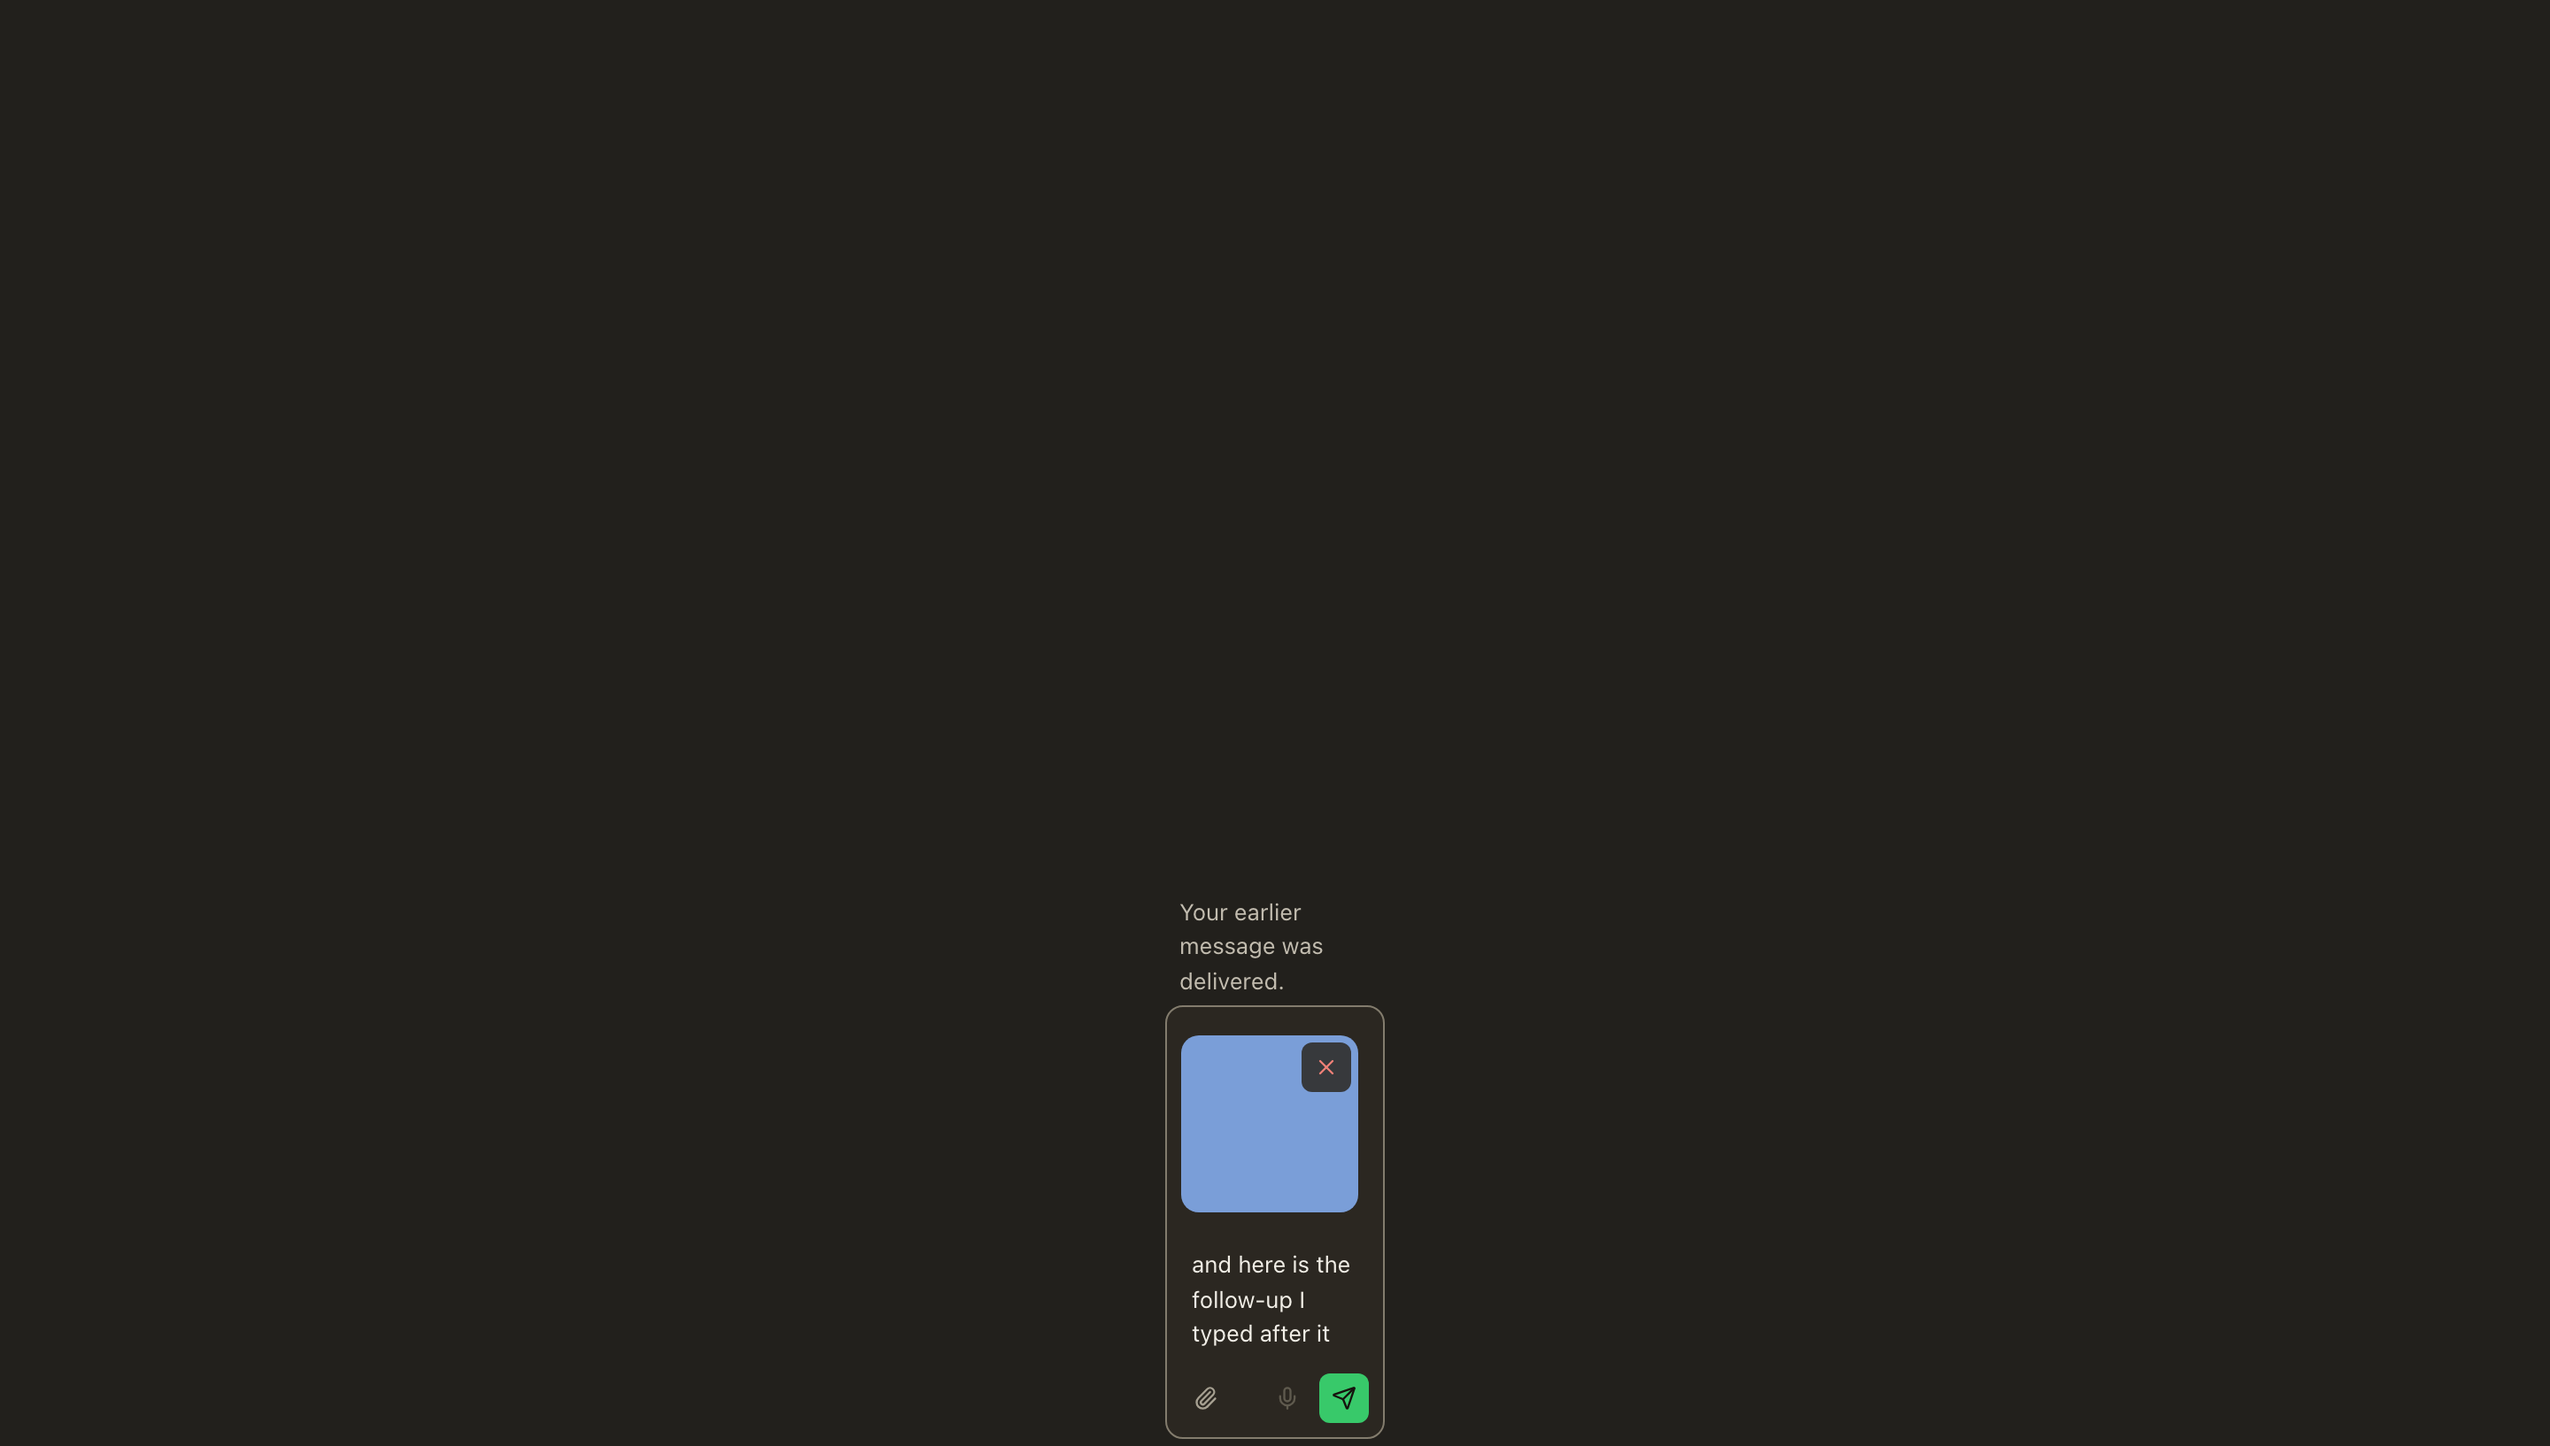
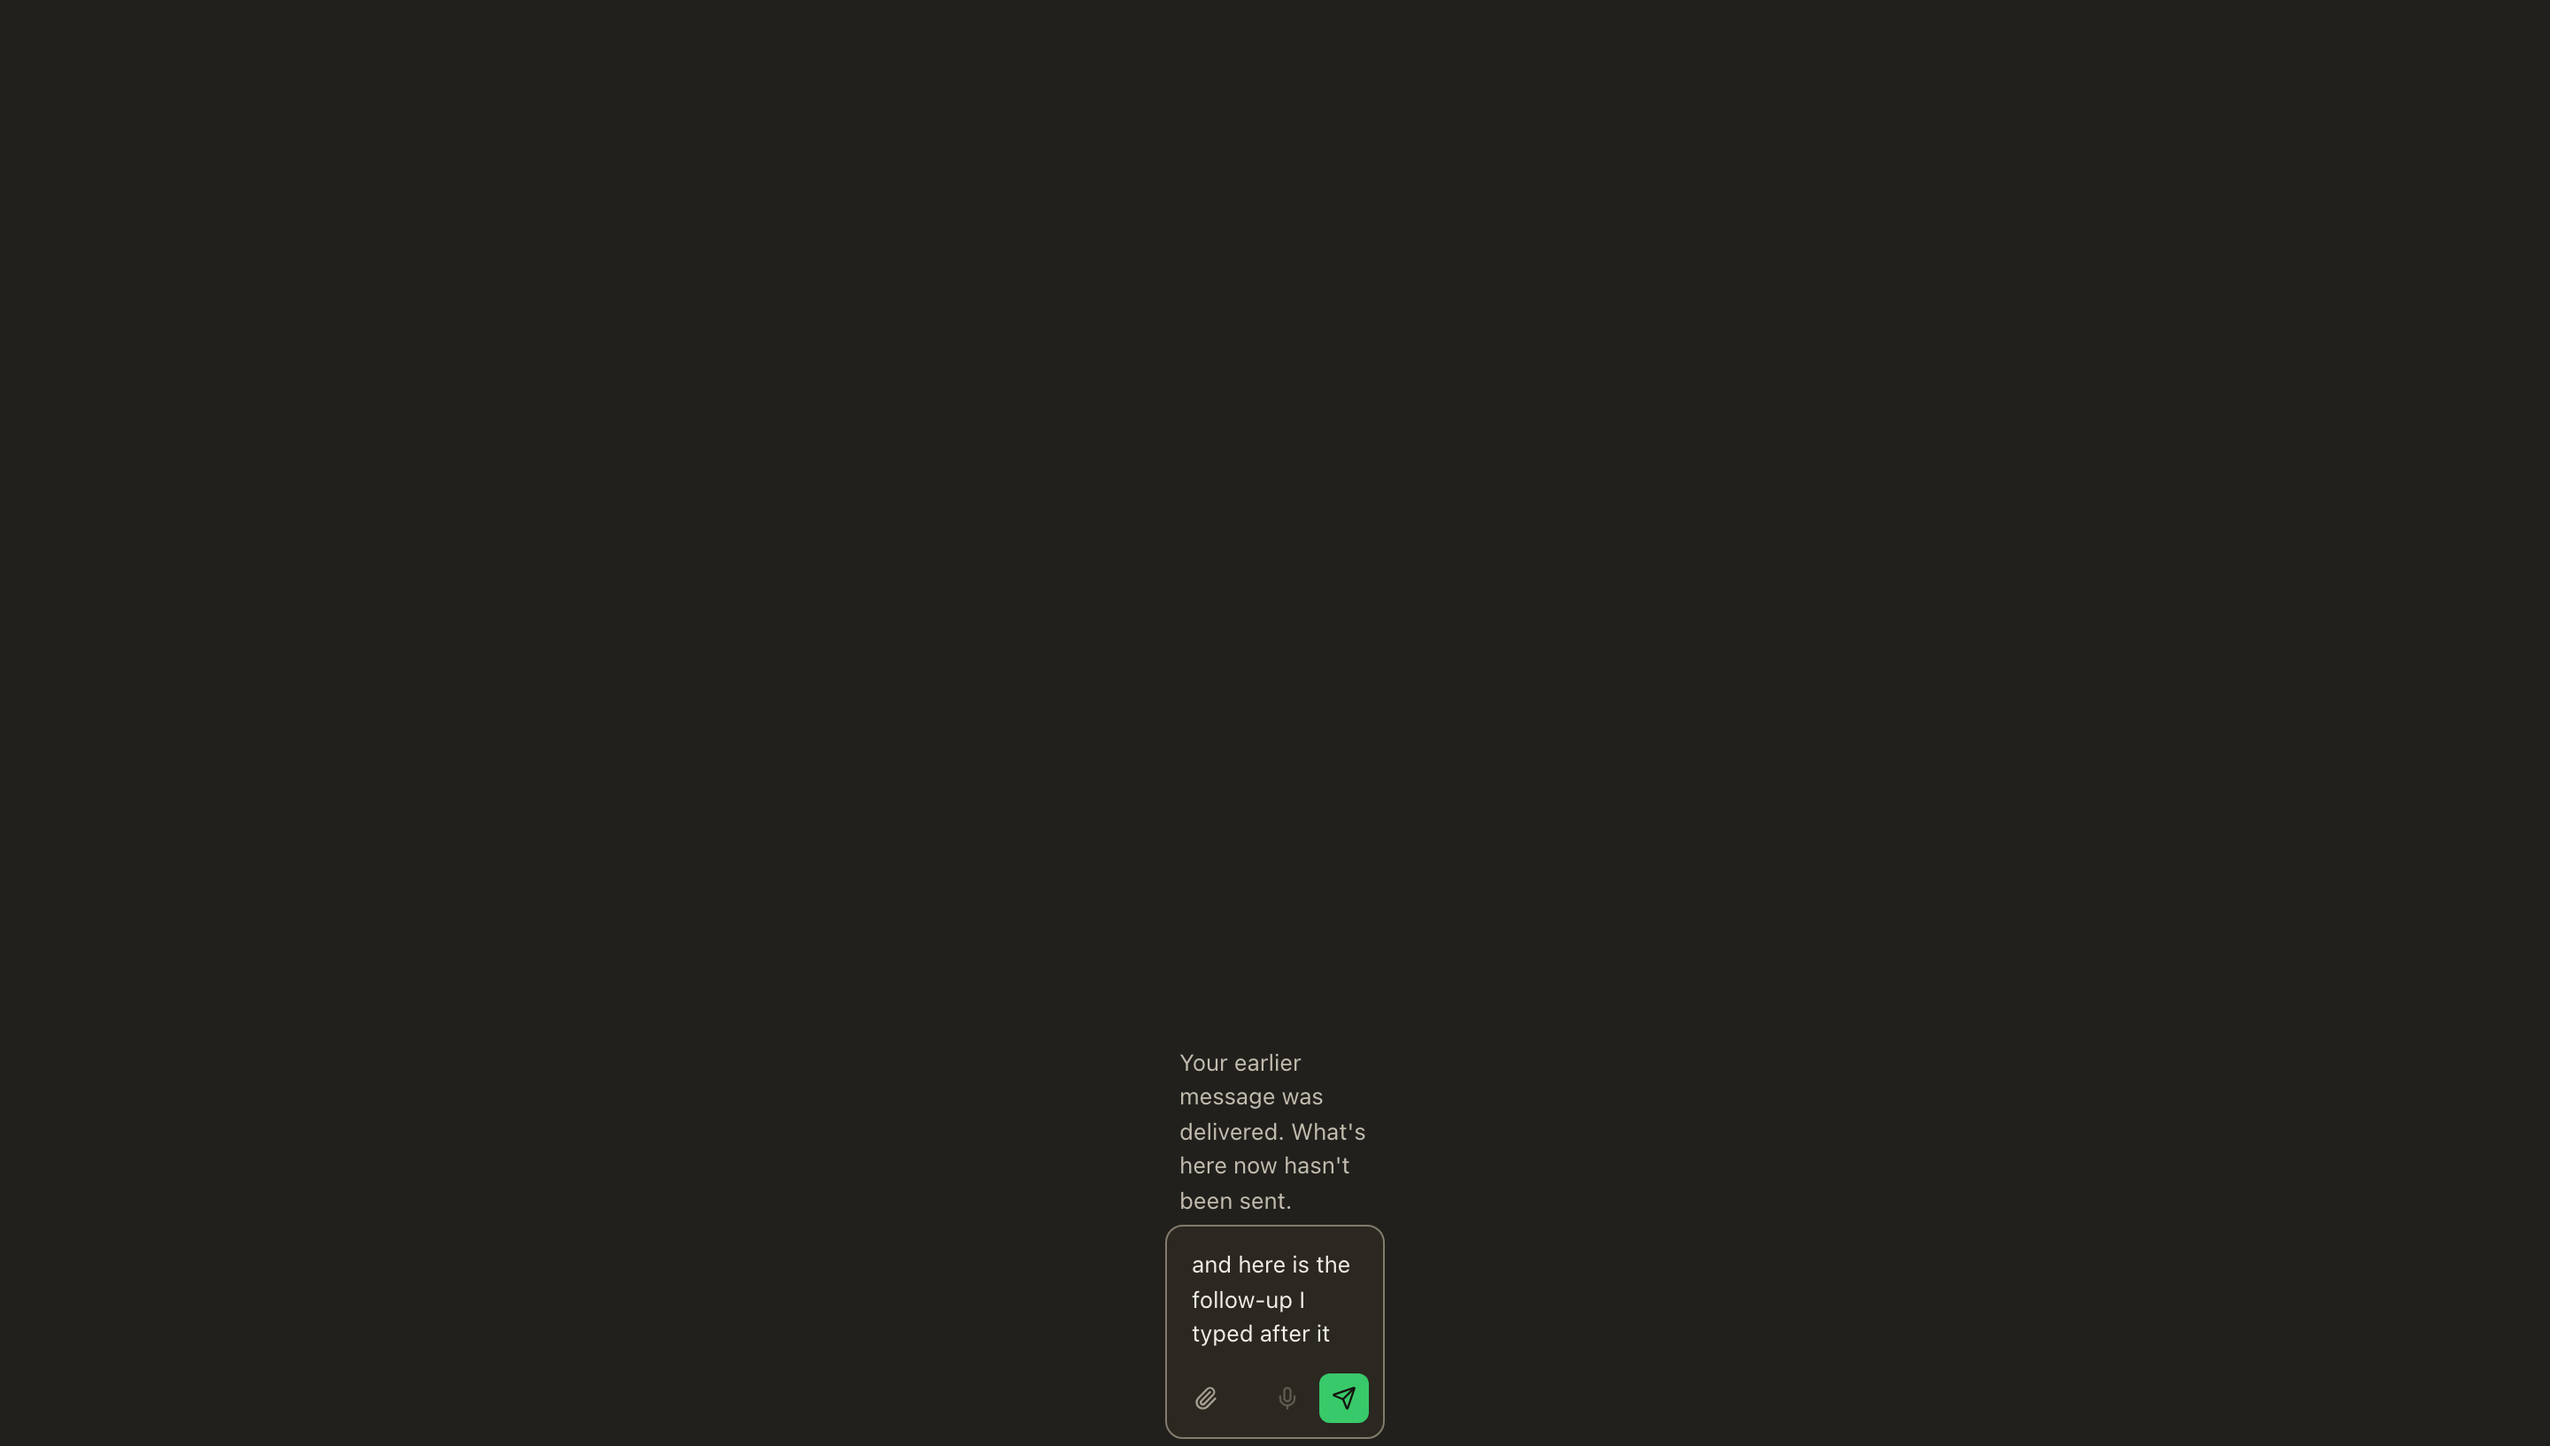
docs(evidence): retire the failed-send story sets, and take the chip off the delivered arm
D6, as the design round recommended rather than as I first left it. The four
failed-send story sets showed copy the app no longer produces - the
unknown-outcome sentence without its "Sending it again is safe." clause, and a 413
about half the app's length that the story hand-wrote - and their sweep could not
be re-run here (this machine's Storybook index refuses those ids, `--allow-backend`
partial run or not). So the six ids left `capture-evidence.mjs`'s table and the 48
committed frames were deleted, exactly as the copy-rule row did in round 1. The
states are not un-evidenced: `composer-notice-arms/` renders every one of them from
the shipped composer at this head, with each sentence imported from the code that
writes it. The stories stay, as tests, and `FailedNotSent` takes the app's own 413
constant now.

D4: the rig staged its chip for EVERY state, so the one frame whose claim is "the
delivered message came out of the box" carried the delivered message's file. The
`delivered` arm stages no chip and carries the sentence that names the box
("Your earlier message was delivered. What's here now hasn't been sent."), which is
the designer's reading (a) - and the box in that frame holds only the user's own
line, which is what the store does now.

The manifest's frames/surfaces are re-derived with the census they describe.

Changed region(s): [[0.4375, 0.7179, 0.5312, 0.8427], [0.4688, 0.6242, 0.5, 0.6867]]

diff --git a/scripts/composer-alert-geometry.tsx b/scripts/composer-alert-geometry.tsx
@@ -168,7 +168,11 @@ const TOO_LONG = messageBudgetRefusal(
 
 const STATES: Record<
 	string,
-	{ sendError: ComposerSendError | undefined; draft?: string }
+	{
+		sendError: ComposerSendError | undefined;
+		draft?: string;
+		noReturnedChip?: boolean;
+	}
 > = {
 	idle: { sendError: undefined },
 	notice: {
@@ -218,8 +222,16 @@ const STATES: Record<
 	 */
 	"edited-idle": { sendError: undefined, draft: EDITED_TEXT },
 	delivered: {
-		sendError: { message: SEND_FAILURE_COPY.lateDelivery, muted: true },
+		/*
+		 * THE SENTENCE THAT NAMES THE BOX (review round 2, D4 + the strip in
+		 * `conversation-input-store`). A late delivery now takes the delivered message
+		 * OUT of the composer, so what is under the note is only what the user typed
+		 * after it - which is what the `draft-only` sentence says - and the delivered
+		 * file went with the message.
+		 */
+		sendError: { message: SEND_FAILURE_COPY.lateDeliveryDraft, muted: true },
 		draft: EDITED_TEXT,
+		noReturnedChip: true,
 	},
 };
 
@@ -240,10 +252,18 @@ if (!state) throw new Error(`unknown state \`${STATE}\``);
  * which moves the very border this page measures.
  */
 useConversationInputStore.setState({ inputByConversation: {} });
-useConversationInputStore.getState().addAttachment(CONVERSATION, {
-	id: "returned-chip",
-	path: RETURNED_CHIP,
-});
+/*
+ * AND NONE ON THE DELIVERED ARM. The chip was staged for EVERY state, so the one
+ * frame whose whole claim is "the delivered message came out of the box" carried
+ * the delivered message's file (design round 2, D4: the frame said "rendered with
+ * none" and showed the chip). The app strips those chips by identity now, so the
+ * state the arm photographs is a box with the user's own words and no file.
+ */
+if (state.noReturnedChip !== true)
+	useConversationInputStore.getState().addAttachment(CONVERSATION, {
+		id: "returned-chip",
+		path: RETURNED_CHIP,
+	});
 useConversationInputStore
 	.getState()
 	.setCurrentInput(CONVERSATION, state.draft ?? RETURNED_TEXT);

diff --git a/docs/evidence/chat-message-input/README.md b/docs/evidence/chat-message-input/README.md
@@ -737,90 +737,20 @@ heavily reviewed component, so it is recorded for its own change rather than
 folded into this one (design round 1 confirmed the two class values and recorded
 the same).
 
-## The failed-send notice: the six states a failed send can leave
+## The failed-send notice: the frames are GONE, and where the states are now
 
-Eighty-four frames, added by the change that stopped holding a failed message
-outside the composer: seven stories at 1024 wide, each in all twelve palettes.
-They are the answer to the operator's own report of the screen this replaced,
-which is committed a few directories over -
-[`../chat-cold-send-browser/admission-timeout/localOperatorDark.webp`](../chat-cold-send-browser/admission-timeout/localOperatorDark.webp)
-shows the live app's old model in one frame: an EMPTY composer, the transport's
-twenty-second sentence in red, a grey paragraph ("A message is still being held,
-so a different message cannot be sent yet...") and `Restore message` /
-`Discard message` under it.
+**This section used to document six states of the failed-send notice (seventy-two
+frames across six directories), and every one of them has been removed from this
+set (review round 2, D6).** They showed copy the app no longer produces: the
+unknown-outcome sentence without its "Sending it again is safe." clause, and a 413
+sentence about half the length of the app's own, which the `FailedNotSent` story
+had hand-written rather than taking from the code that writes it. A reader
+comparing those frames with the app - or with this change's own
+`../composer-notice-arms/` - saw two different sentences for one state.
 
-| State | What the frame is for |
-| --- | --- |
-| `failed-unknown` | The timeout the operator photographed: the message and its file back in the composer, one sentence, `Retry` and `Clear`. |
-| `failed-not-sent` | The same shape for a refusal decided before the wire (a 413): the whole message is still the composer's. |
-| `failed-too-large` | The arm whose remedy is a SPLIT rather than a press, so the notice offers `Clear` only. |
-| `failed-merged` | The same failure arriving after the user typed while it was in flight: the returned message first, their own sentence kept under it. |
-| `delivered-late` | The muted "Your earlier message was delivered." - the box's edit untouched, and no control at all. |
-| `send-lock` | The muted "Your last message is still sending.", with the user's next message still in the box and nothing to press. |
-| `notice-copy-is-the-app-copy` | The copy rule itself: a story whose play reads `sendFailureCopy`, so a frame set cannot be captured on a tree where the notice stopped coming from the table. |
-
-The sentences are never written in the story. Each takes its notice from
-`sendFailureCopy`, fed the failure the app would have caught, and each play
-asserts what the frame exists to show - the message is in the box, the notice is
-ONE sentence, and it speaks none of the old vocabulary ("held", "admission",
-"Restore message"). Written by the repository's own sweep, from the tree that
-commits them:
-
-```
-npx storybook dev -p 6018 --host 127.0.0.1 --no-open --disable-telemetry
-node scripts/capture-evidence.mjs --only=chat-message-input--failed \
-  --allow-backend http://127.0.0.1:6018
-```
-
-(and one narrowed run each for `--delivered-late`, `--send-lock` and
-`--notice-copy`, which share no prefix). `scripts/capture-evidence.mjs` registers
-the seven ids and their heights - 420 for the chip-carrying arms, 480 for
-`failed-merged`, whose field holds two paragraphs - because a crop at 300 would
-cut the row each frame is about.
-
-The geometry the stills imply, measured rather than asserted from the pictures by
-`scripts/composer-alert-geometry.mjs` (all assertions passing):
-
-| column | state | notice | sentences | controls | box top | move | send bottom/window |
-| --- | --- | --- | --- | --- | --- | --- | --- |
-| 892 | idle | - | 0 | - | 561 | 0.0px | 784/817 |
-| 892 | notice | 505.5..561 (h55.5) | 1 | Retry+Clear | 561 | 0.0px | 784/817 |
-| 892 | muted | 533.5..561 (h27.5) | 1 | - | 561 | 0.0px | 784/817 |
-| 472 | notice | 555.5..607 (h51.5) | 1 | Retry+Clear | 607 | 0.0px | 804/817 |
-| 172 | notice | 429..539 (h110) | 1 | Retry+Clear | 539 | 0.0px | 804/817 |
-
-The move is the claim: with the same draft, a notice appearing does not move the
-line the user is typing at any width, because the band is bottom-anchored and the
-notice grows upward into the transcript. The old model's own numbers are in the
-sibling `store-refusal` rig's history - 388px of content in a 120px window, with
-the remedy controls below the fold.
-
-What these frames CANNOT show, and what is handed to QA rather than implied: the
-notice on a REAL failed send, end to end. The states here are the component in
-the state the app puts it in; the transport's real deadline firing against a
-stopped backend, the request that was and was not admitted, and the owner's
-durable row count after a Retry are the live matrix in this change's PR.
-
-## Round 3 (the composer-send-failure change): which frames are current, and which are not
-
-This set's `failed-*`, `delivered-late` and `send-lock` frames were captured
-BEFORE this change's copy pass, and three of them show sentences the app no longer
-produces:
-
-| directory | what is stale about it |
-| --- | --- |
-| `failed-unknown` | was shot before the unknown-outcome sentence gained "Sending it again is safe." |
-| `failed-merged` | same sentence, same omission |
-| `failed-not-sent` | the 413 is this set's old SHORT stand-in; the app's own sentence (`DESKTOP_REQUEST_TOO_LARGE_DETAIL`) is about twice as long |
-
-The stories themselves are current - both `FailedNotSent` and `FailedTooLarge` now
-take their sentence from the app's own constant (`message-input.stories.tsx`), so
-the next capture of them cannot drift - and the affected states are also rendered
-by this change's own rig (`docs/evidence/composer-notice-arms/`), which captures
-the shipped composer with a real pasted-image chip.
-
-The re-shoot of these three sets was attempted from this worktree with the
-repository's own sweep and could not run:
+Re-sweeping them was attempted from this worktree and could not run: the repository's
+own sweep refuses the ids against this machine's Storybook index even for a
+`--allow-backend` partial run.
 
 ```
 node scripts/capture-evidence.mjs --only=chat-message-input--failed- --allow-backend
@@ -830,9 +760,20 @@ chat-message-input--failed-merged. Check http://localhost:6017/index.json for th
 real ids.
 ```
 
-`--allow-backend` is the sanctioned partial-run flag (a backend answers on the
-default port on this machine all session), and the ids come from the sweep's own
-story table, so the failure is in this set's Storybook index rather than in the
-filter. Until that is resolved these frames are left in place, labelled here for
-what they are, rather than deleted: a reader can see which sentence is old and why,
-which a missing directory would not say.
+So the six ids left `scripts/capture-evidence.mjs`'s table and their committed
+frames were deleted, exactly as the copy-rule row did in round 1 (D5). **The
+states are not un-evidenced**: `../composer-notice-arms/` renders every one of them
+from the SHIPPED composer at this head, at three column widths and in the themes
+the design rounds measured, with each sentence imported from the code that writes
+it, and its `delivered` arm is the late-confirmation state with no chip. The
+STORIES stay in `message-input.stories.tsx` and stay tests - `FailedNotSent` now
+takes `DESKTOP_REQUEST_TOO_LARGE_DETAIL`, as `FailedTooLarge` already did, so the
+two cannot drift apart again.
+
+The operator's own report of the screen this all replaces is still committed a few
+directories over -
+[`../chat-cold-send-browser/admission-timeout/localOperatorDark.webp`](../chat-cold-send-browser/admission-timeout/localOperatorDark.webp)
+shows the live app's old model in one frame: an EMPTY composer, the transport's
+twenty-second sentence in red, a grey paragraph ("A message is still being held,
+so a different message cannot be sent yet...") and `Restore message` /
+`Discard message` under it.
